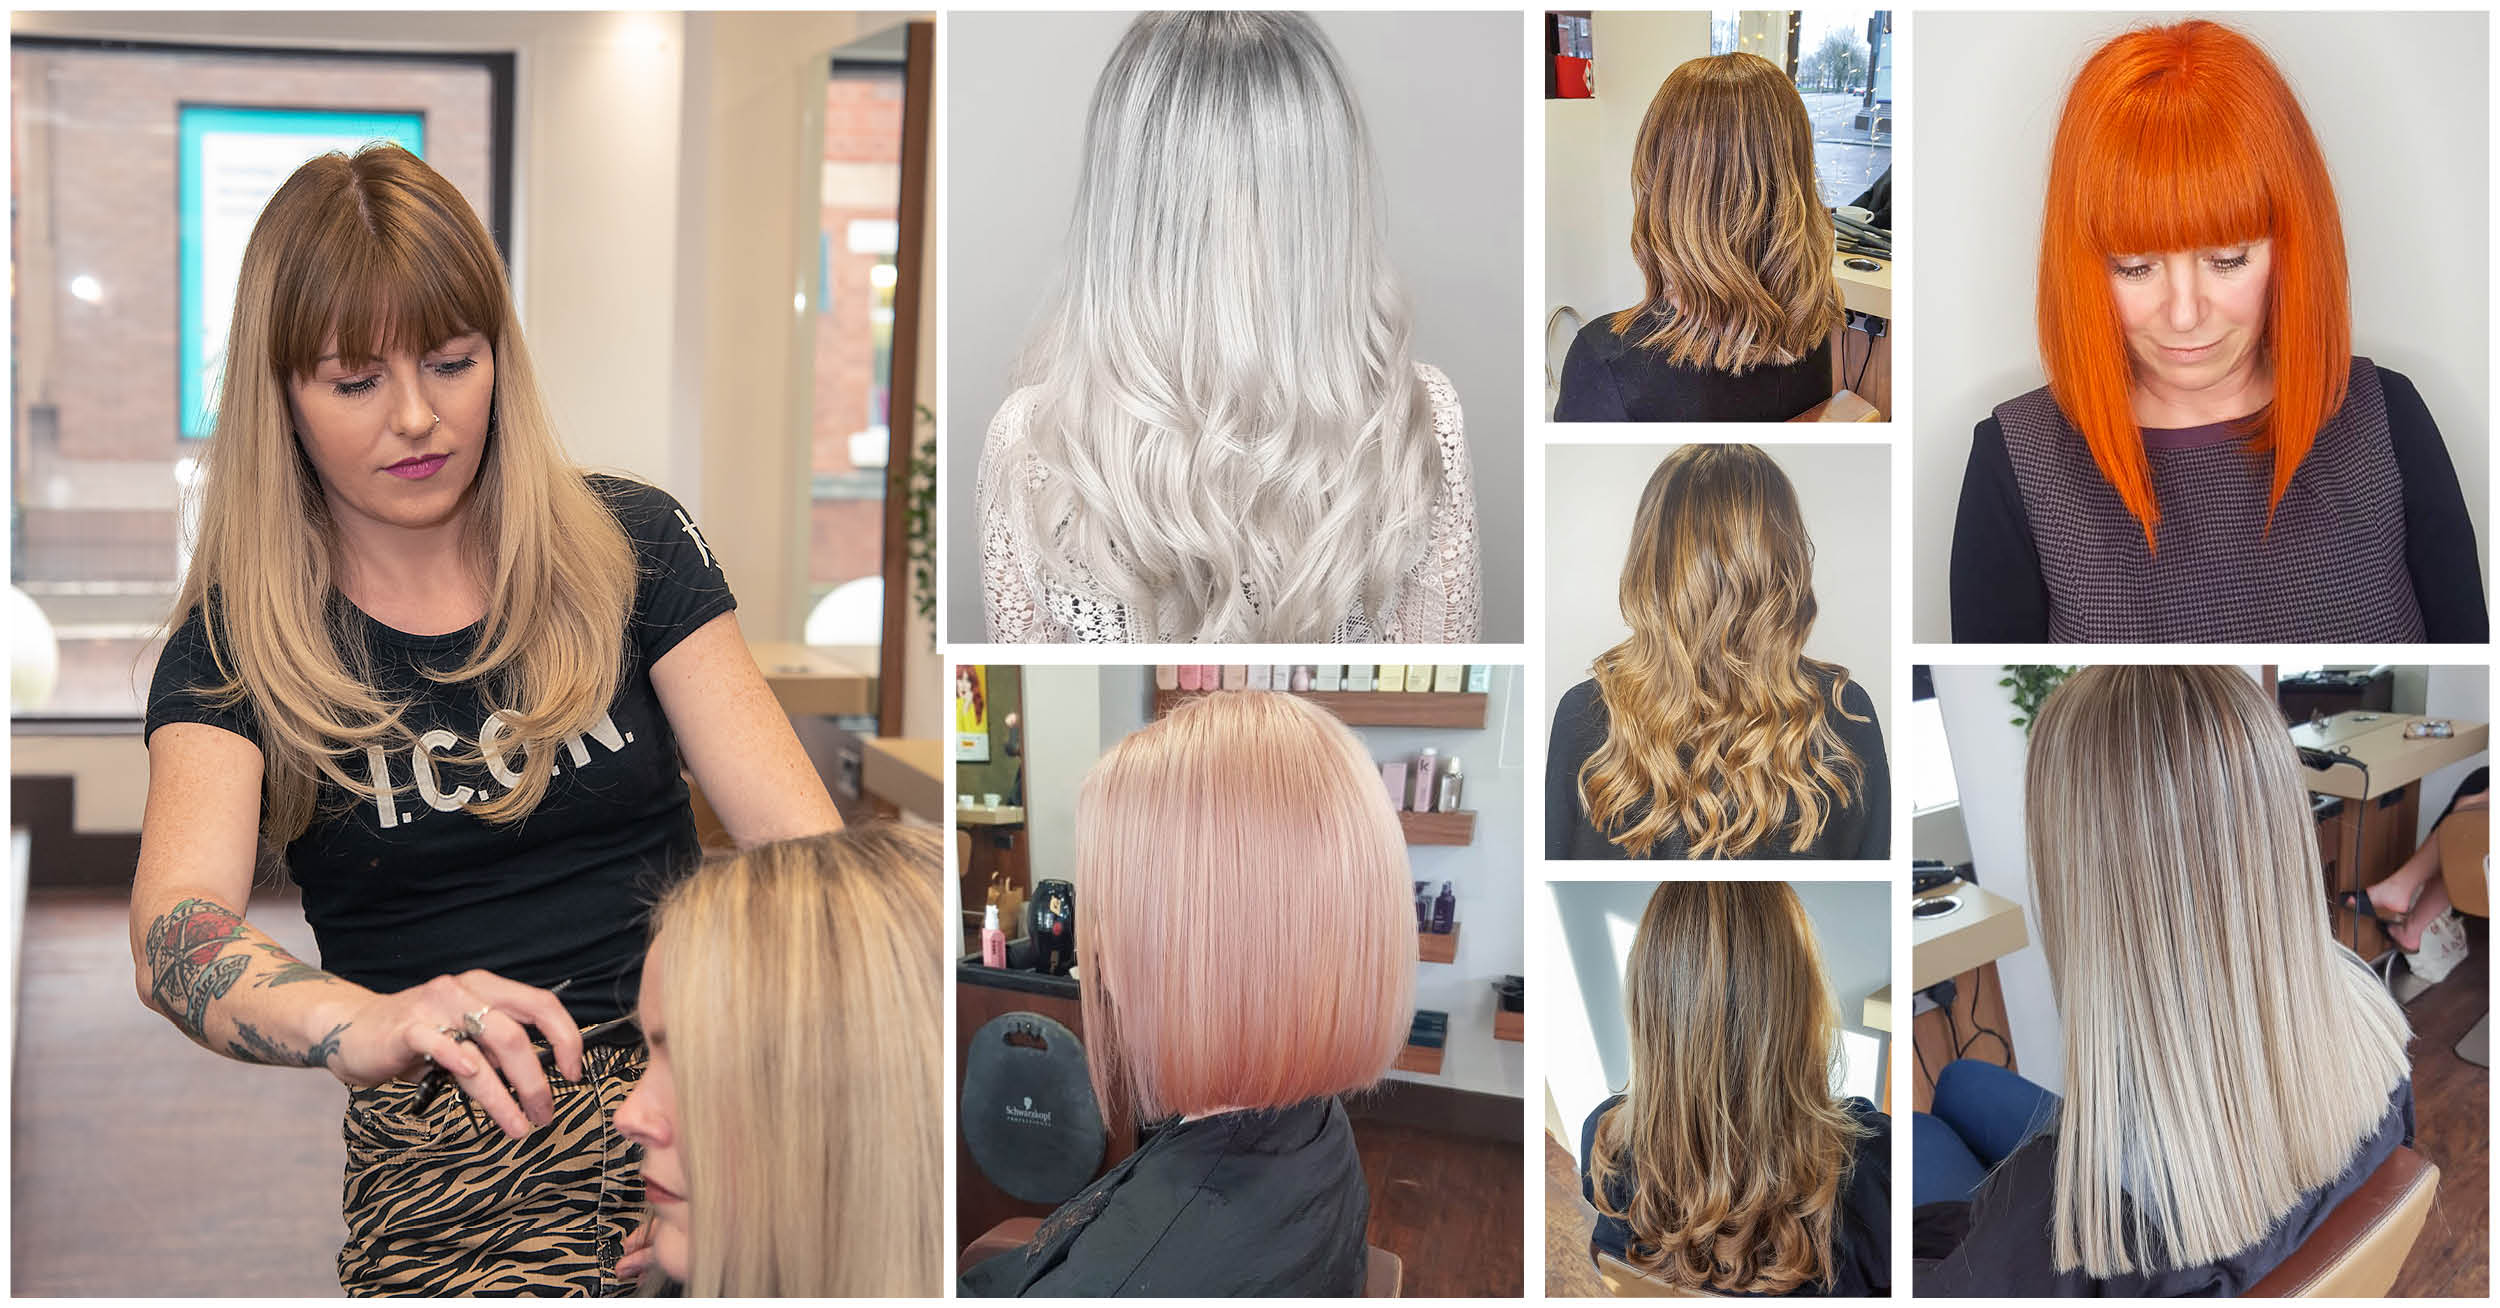
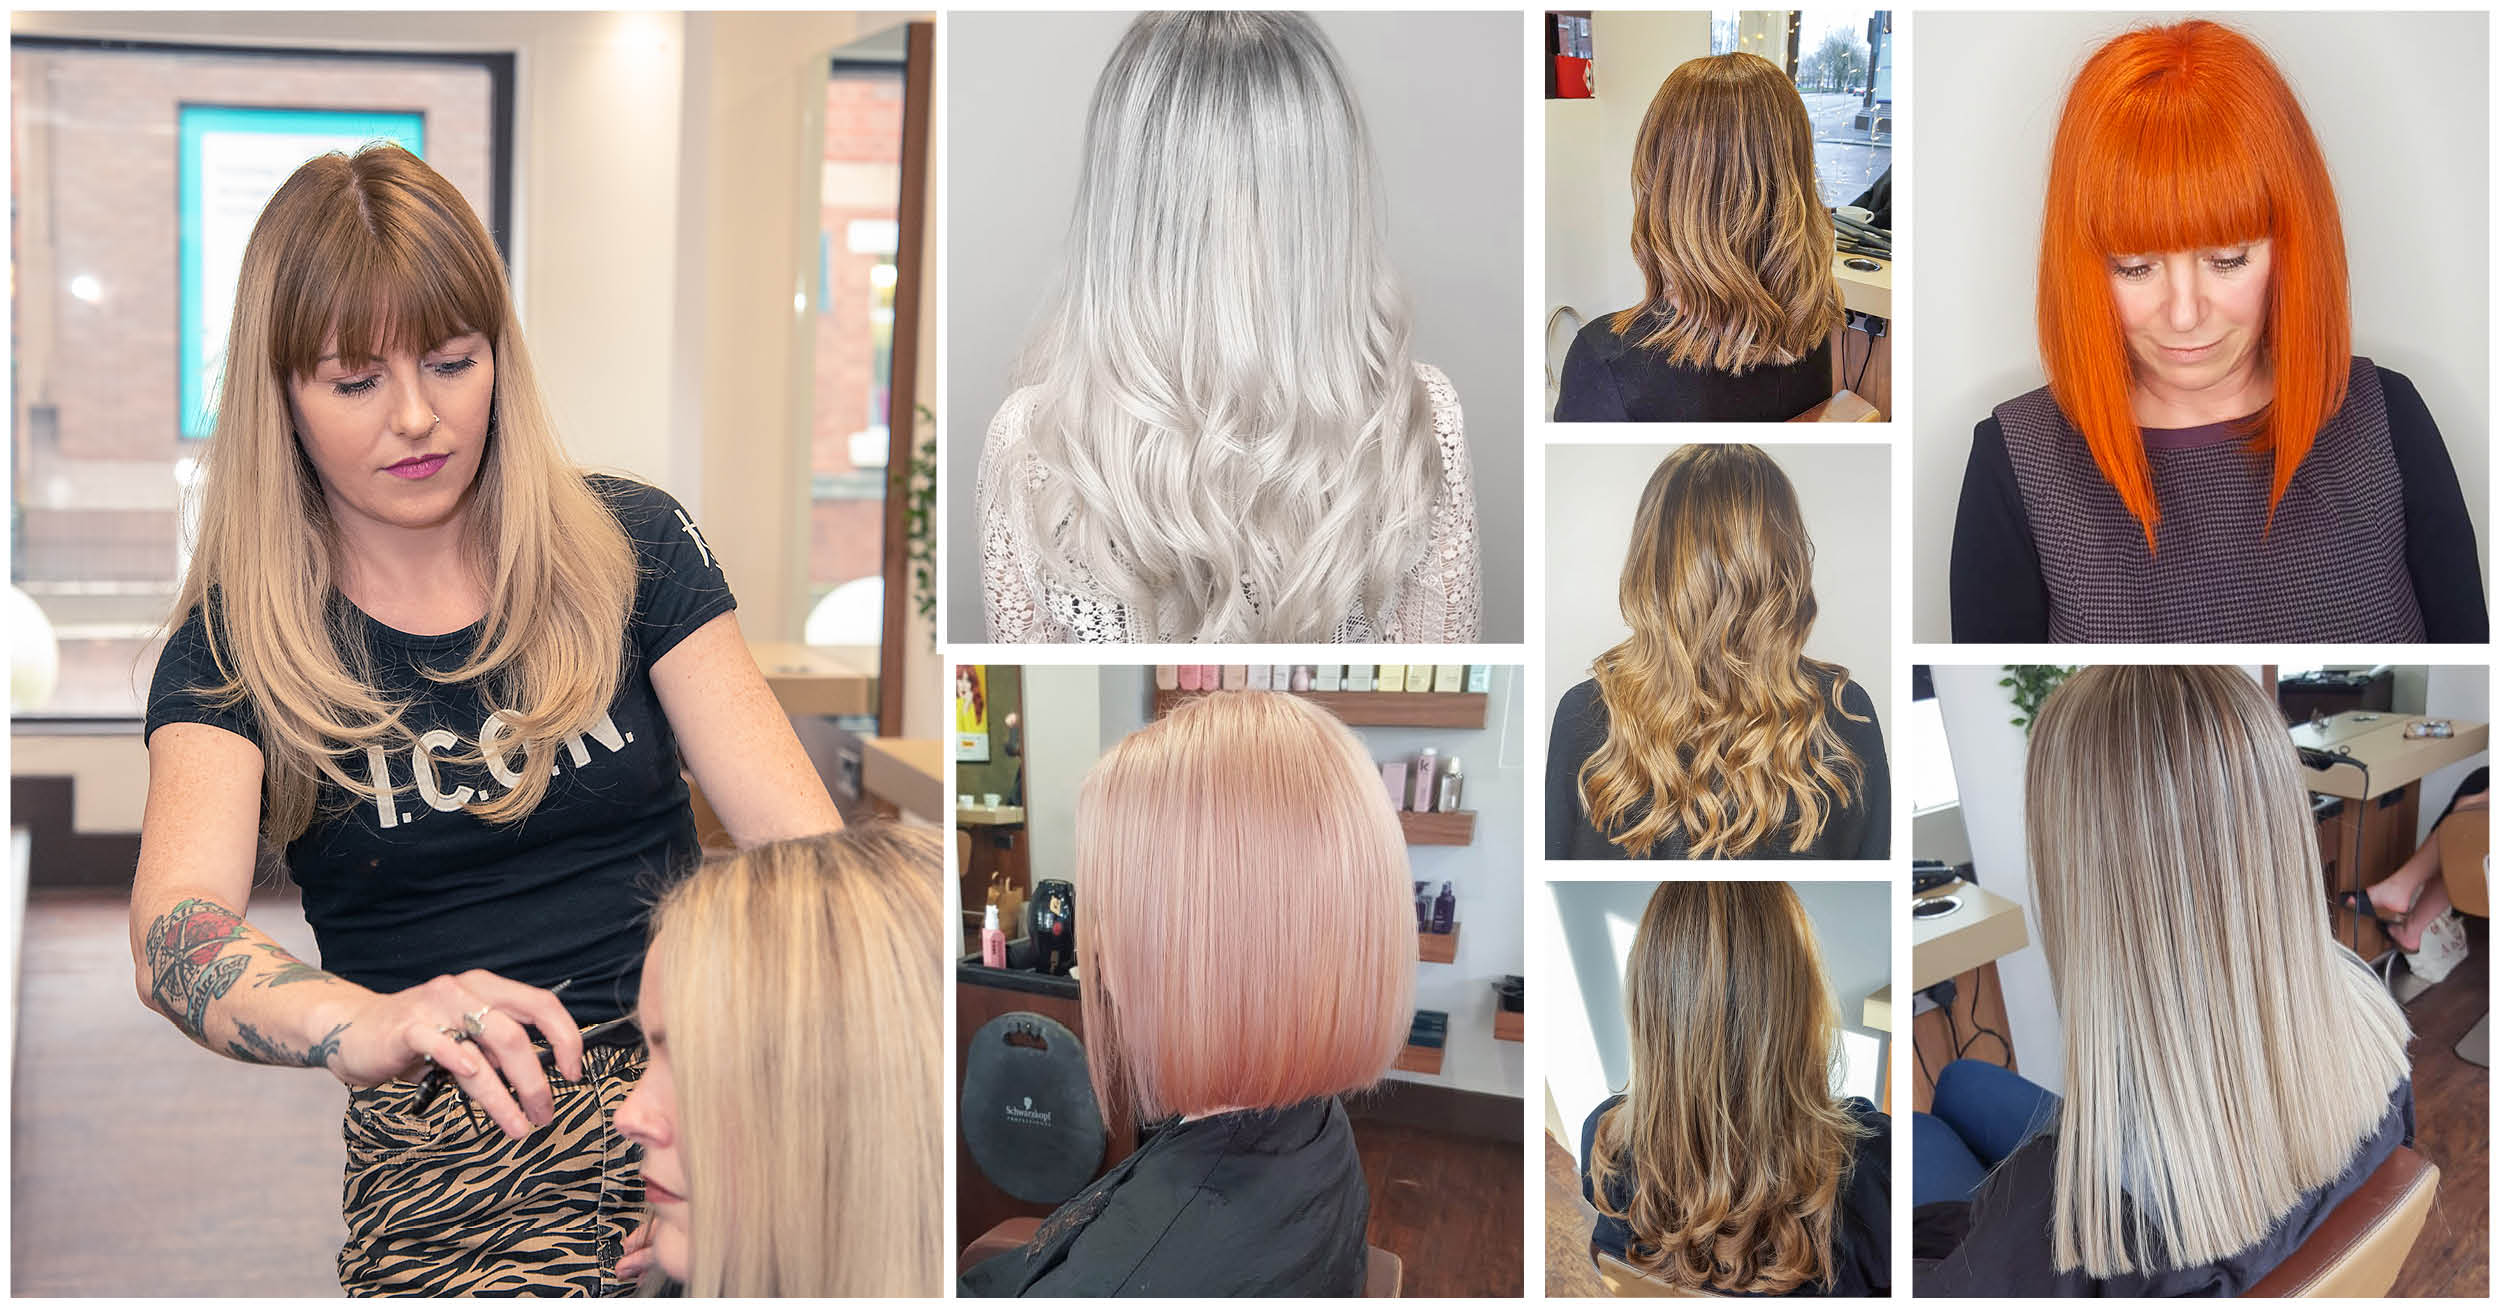
Brightened the images

diff --git a/resources/views/pages/offers.blade.php b/resources/views/pages/offers.blade.php
@@ -58,7 +58,7 @@
 				</div>
 			</div>
 		</a>
-		<a href="{{ URL::to('offers/brad') }}">
+		<!-- <a href="{{ URL::to('offers/brad') }}">
 			<div  class="box">
 				<div class="columns">
 					<div class="column">
@@ -73,7 +73,7 @@
 					</section>
 				</div>
 			</div>
-		</a>
+		</a> -->
 		<a href="{{ URL::to('offers/sarah') }}">
 			<div class="box">
 				<div class="columns">
